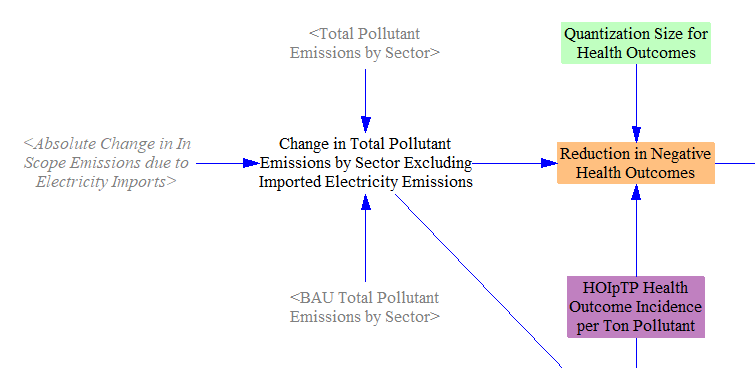
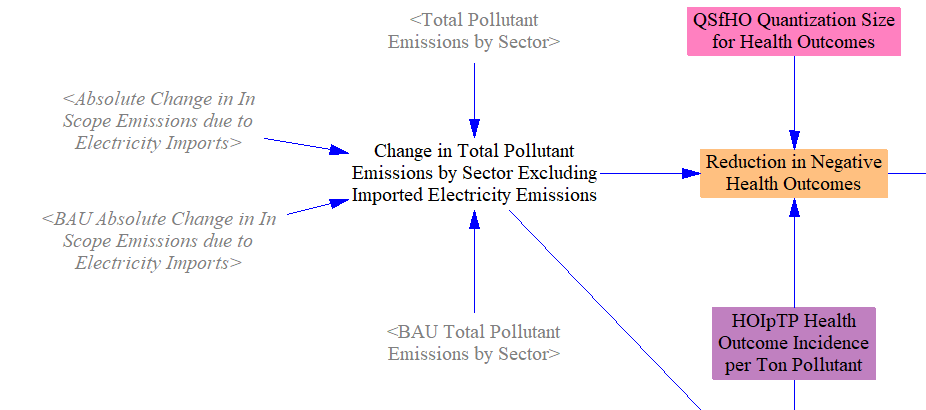
Update Model Components documentation for additional-outputs and cost-outputs

diff --git a/docs/cost-outputs.md b/docs/cost-outputs.md
@@ -4,13 +4,13 @@ title: Cost Outputs
 
 ## Note on the Cost of a Policy Package
 
-One of the most common outputs in which a user might be interested is the economic cost of a policy package. The model calculates cash flow changes, representing the direct (first-order) transfers of money from one entity in the model to another, as a result of the active policy package. The EPS tracks these cash flows for nine different entities: government, labor and consumers, foreign entities, non-energy industries, natural gas and petroleum suppliers, electricity suppliers, biomass and biofuel suppliers, coal suppliers, and other energy suppliers. For each of these entities, users can further break down cash flow changes into changes in revenue (differentiated by domestic and export revenue for industries) and changes in energy and non-energy expenditures.  Cash flow impacts to industries are further divided up by ISIC code for use in the [input-output model](io-model).
+One of the most common outputs in which a user might be interested is the economic cost of a policy package. The model calculates cash flow changes, representing the direct (first-order) transfers of money from one entity in the model to another, as a result of the active policy package. The EPS tracks these cash flows for nine different entities: government, labor and consumers, foreign entities, non-energy industries, natural gas and petroleum suppliers, electricity suppliers, biomass and biofuel suppliers, coal suppliers, and other energy suppliers. Cash flow impacts to industries are further divided up by ISIC code for use in the [input-output model](io-model).
 
 In addition to understanding cash flow changes by entity or ISIC code, many users will wish to report overall costs or savings of a policy package. However, “cost” can be defined in more than one reasonable way. Since any money that is spent is received by someone else, the total of all these cash flow changes sums to zero. So, summing all cash flow changes is not a meaningful metric of policy cost.
 
-In order to report the overall costs and savings of a policy package, we report the “Change in CapEx and OpEx” due to a package, which includes the change in capital expenditures, fuel and operational expenditures (including labor), and additional carbon tax on process emissions.  This metric does not include subsidy payments, as these are considered cash transfers, rather than capital or operational expenditures. The web application presents each of these components in addition to their sum to better demonstrate how much a policy package “costs.” This metric is similar to the sum of all cash flow changes, except we include only changes in amounts _paid_ and exclude changes in amounts _received_. The changes in amounts paid can be positive or negative. For example, if a policy causes consumers to buy less fuel, then consumers have a positive cash flow change (because they have saved money on fuel), and the “Change in CapEx and OpEx” will be negative (because less money is being spent as a result of the policy package). It does not matter that the fuel industry is receiving less money, because changes in receipts are excluded from this cost metric.
+In order to report the overall costs and savings of a policy package, we report the “Change in CapEx and OpEx” due to a package, which includes the change in capital expenditures, fuel and operational expenditures (including labor), and additional carbon tax on process emissions.  This metric does not include subsidy payments, as these are considered cash transfers, rather than capital or operational expenditures. The web application presents each of these components in addition to their sum to better demonstrate how much a policy package “costs.” This metric is similar to the sum of all cash flow changes, except we include only changes in amounts _paid_ and exclude changes in amounts _received_. The changes in amounts paid can be positive or negative. For example, if a policy causes consumers to buy less fuel, then consumers have a positive cash flow change (because they have saved money on fuel), and the “Change in CapEx and OpEx” will be negative (because less money is being spent as a result of the policy package). It does not matter that the fuel industry is receiving less money, because changes in receipts are excluded from this cost metric. 
 
-In addition to the standard “Change in CapEx and OpEx” (which makes no assumption about how any revenues are used), the EPS features a version of this metric that assumes all taxes and subsidies (including additional carbon tax, if enabled by the user) are revenue-neutral. This version of the cost metric assumes changes in tax payments are offset by reductions in other taxes, so we subtract them from the policy package cost (and vice versa for subsidies).  (Even though subsidies are not included in the regular “Change in CapEx and OpEx” metric, their withdrawal is included in the revenue-neutral metric, because this withdrawal is assumed to be funded by increased expenditures from the non-government cash flow entities, which would affect their CapEx and OpEx.)  We include this option for two reasons. First, at least in the United States, much consideration of enacting carbon taxes has centered on making them revenue-neutral. Second, carbon tax payments can dominate other contributors to policy package cost, due to the sheer quantity of fuel that is purchased to operate the economy. (A carbon tax reduces fuel demand in accordance with various elasticities of demand, but these demand reductions are not enough to compensate for the higher cost of the fuel that is still sold.) This can make policy packages appear expensive to model users (especially those who only interact with the model via the web application interface), as they may not understand that the reported cost metrics are merely first-order cash flows that do not indicate the overall effect on the economy or on any actor’s welfare. In the real world, government may use tax receipts in ways that boost the economy by more than one dollar per dollar in receipts (for example, by investing in energy efficiency programs or public transit systems), or alternatively, in ways that are less productive and deliver fewer than one dollar of economic benefits per dollar spent. In this context, you might consider the revenue-neutral tax to assume exactly one dollar of economic benefits per dollar received by the government. If you wish to avoid this assumption and view outputs that deliver a consistent treatment of all cash flows, simply use the standard version of the cost outputs.
+It is important to note that these reported cost metrics are merely first-order cash flows that do not indicate the overall effect on the economy or on any actor’s welfare. In the real world, government may use tax receipts in ways that boost the economy by more than one dollar per dollar in receipts (for example, by investing in energy efficiency programs or public transit systems), or alternatively, in ways that are less productive and deliver fewer than one dollar of economic benefits per dollar spent. 
 
 Lastly, a user concerned with the cost of a policy package should also look at the outputs for monetized public health and climate benefits: namely, avoided mortality from reduced particulates and avoided climate damages.  (These are located on the on the [Additional Outputs sheet](additional-outputs).)  Monetized benefits tend to outweigh the direct cost of policy packages in most cases.
 
@@ -22,7 +22,11 @@ When a sector does not contain a given type of spending (for example, there is n
 
 ## Useful Totals
 
-First, we sum the changes in fuel, capital, and OM expenditures, as well as additional carbon tax on process emissions, to find the “Total Change in CapEx and OpEx.” The relevant structure is shown below:
+First, we sum the changes in fuel, capital, and OM expenditures, as well as additional carbon tax on process emissions, to find the “Total Change in CapEx and OpEx before Tax Rebates.”
+
+![cost totals](/img/cost-outputs-TotalBeforeRebates.png)
+
+Any tax revenue that is rebated to households or businesses (i.e. partial or total revenue neutrality) should not count toward the "Total Change in CapEx and OpEx" metric, so we subtract out any tax rebate payments here (see the [Input-Output model](io-model)) documentation for a discussion of customizing Government Revenue Accounting mechanisms). 
 
 ![cost totals](/img/cost-outputs-Total.png)
 
@@ -30,13 +34,5 @@ We also show the total as net present value (NPV) in the first year of the model
 
 ![NPVs of cost totals](/img/cost-outputs-NPV.png)
 
-## Revenue-Neutral Tax Package Costs
-
-The “Total Change in Tax Revenues” and “Total Change in Subsidies” are calculated by summing changes in taxes and subsidies paid from each sector, as detailed above in the “Calculating Changes in Spending” section.
-
-We then create a modified version of “Total Change in CapEx and OpEx” by subtracting out the change in tax revenues and adding in the total change in subsidies, as shown in the following model structure:
-
-![cost metrics assuming revenue-neutral carbon tax](/img/cost-outputs-RevenueNeutral.png)
-
 ---
-*This page was last updated in version 3.0.0.*
+*This page was last updated in version 3.5.0.*

diff --git a/docs/additional-outputs.md b/docs/additional-outputs.md
@@ -32,11 +32,11 @@ The EPS calculates the change in the following public health outcomes caused by 
 
 In the web interface, these are grouped into eight categories, while the full breakout of eleven categories is shown in Vensim.
 
-Particulates are the primary cause of these negative health outcomes, including primary particulates (those directly emitted by combustion) and secondary particulates (those formed in the atmosphere by chemical reactions involving gaseous pollutants).  The health outomes simulated in the EPS are only due to particulates, not other pollutants (such as ozone), so the public health impacts estimates produced the EPS may be conservative.
+Particulates are the primary cause of these negative health outcomes, including primary particulates (those directly emitted by combustion) and secondary particulates (those formed in the atmosphere by chemical reactions involving gaseous pollutants).  The health outomes simulated in the EPS are only due to particulates, not other pollutants (such as ozone), so the public health impacts estimates produced by the EPS may be conservative.
 
 ### Model Structure
 
-The total emissions of each pollutant in the BAU and policy cases are obtained from the [Cross-Sector Totals](cross-sector-totals) sheet, and we take the difference to find the change in pollutant emissions caused by the policy package.  (For the small number of EPS models configured to include emissions associated with imported electricity in the in-region emissions total, we exclude these emissions from the public health calculations, as we are only tracking health incidents caused by in-region emissions.)   We then multiply the change in emissions of each pollutant by a set of `Health Outcome Incidence per Ton Pollutant` multipliers, from the reduded-form tools discussed above.  Outcomes are quantized (rounded down) to the nearest whole number, such as 1 death or 1 lost workday.
+The total emissions of each pollutant in the BAU and policy cases are obtained from the [Cross-Sector Totals](cross-sector-totals) sheet, and we take the difference to find the change in pollutant emissions caused by the policy package.  (For the small number of EPS models configured to include emissions associated with imported electricity in the in-region emissions total, we exclude these emissions from the public health calculations, as we are only tracking health incidents caused by in-region emissions.)   We then multiply the change in emissions of each pollutant by a set of `Health Outcome Incidence per Ton Pollutant` multipliers, from the reduded-form tools discussed above.  Outcomes are quantized (rounded down) in increments set by the input data variable 'Quantization Size for Health Outcomes.'  Generally, health outcome graphs don't have rounding errors that need to be dampened, and quantizing to 1 incident can result in errors in the display of graphs don't have rounding errors that need to be the avoided deaths wedge diagram, which can be pronounced in regions and policy packages with small numbers of avoided deaths in partiuclar years (less than 20). Therefore, we default this variable to zero, which has the effect of not quantizing the results at all (the same as if the QUANTUM function were not used).
 
 ![public health benefits in the EPS](/img/additional-outputs-PublicHealthBenefits.png)
 
@@ -93,4 +93,4 @@ We also calculate the change in net electricity imports, which is used in one ou
 ![change in net electricity imports](/img/additional-outputs-CngNetElecImports.png)
 
 ---
-*This page was last updated in version 3.3.0.*
+*This page was last updated in version 3.5.0.*
